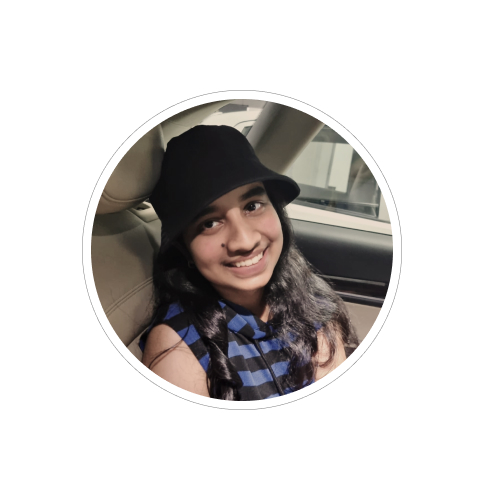
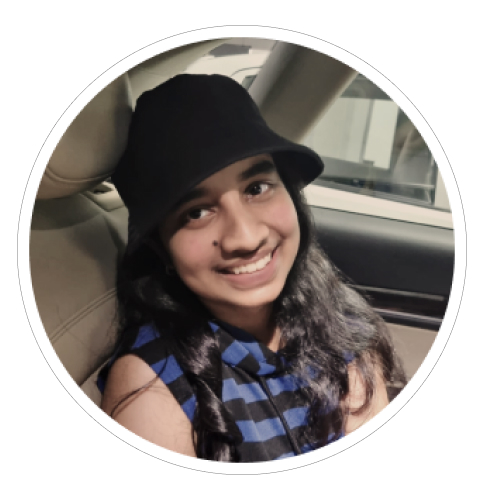
profile image

diff --git a/_sass/_layout.scss b/_sass/_layout.scss
@@ -34,7 +34,7 @@ body.sticky-bottom-footer {
 // Profile
 .profile {
   img {
-    width: 100%;
+    width: 70%;
   }
 }
 
